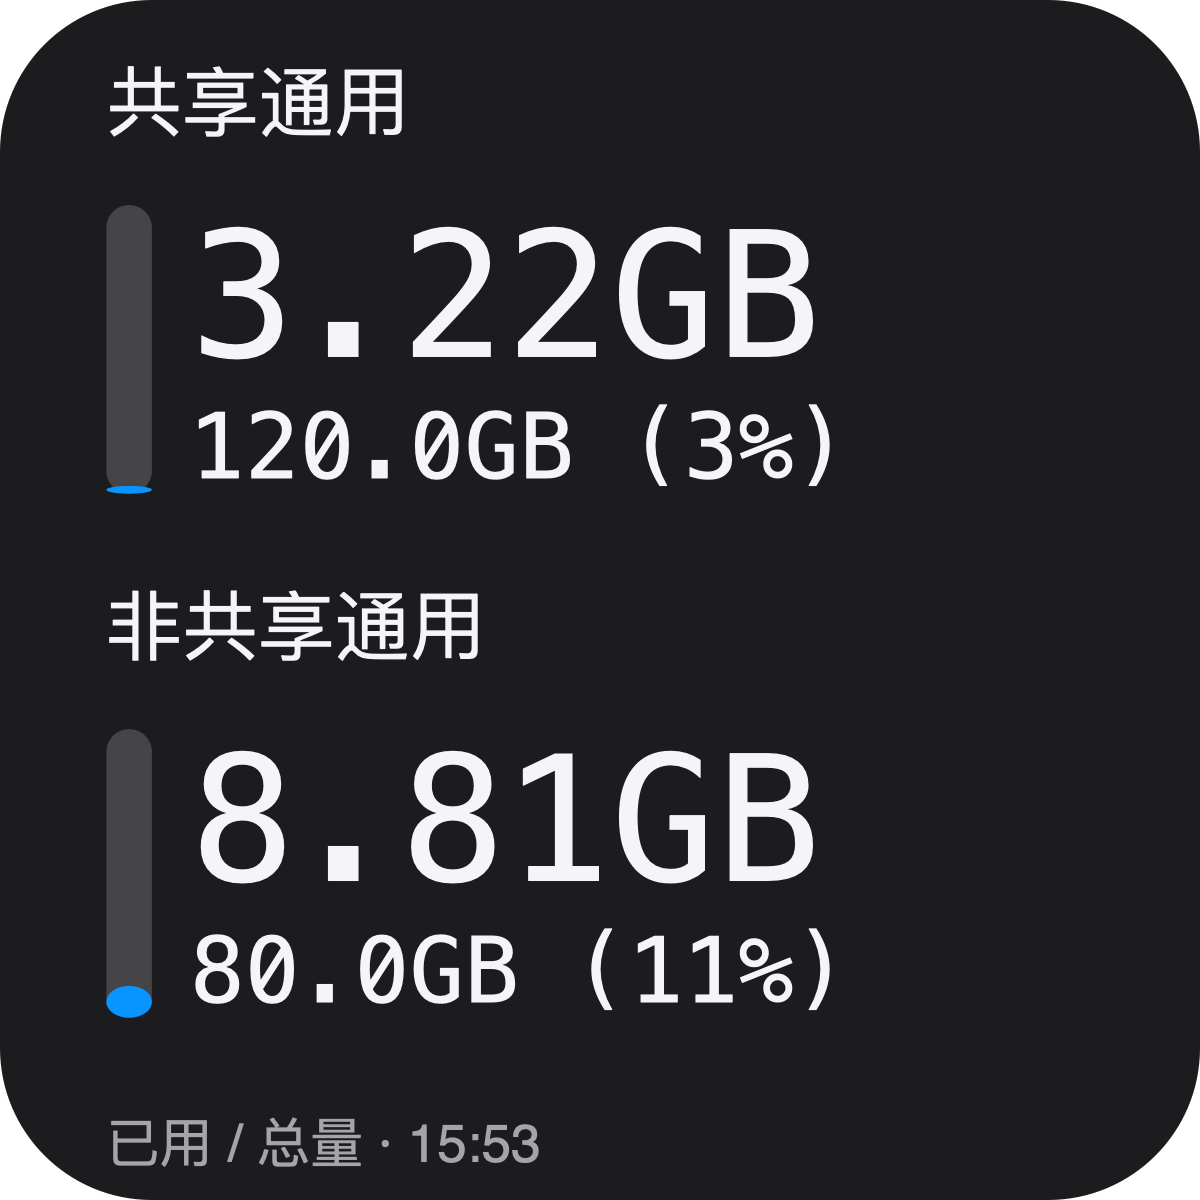
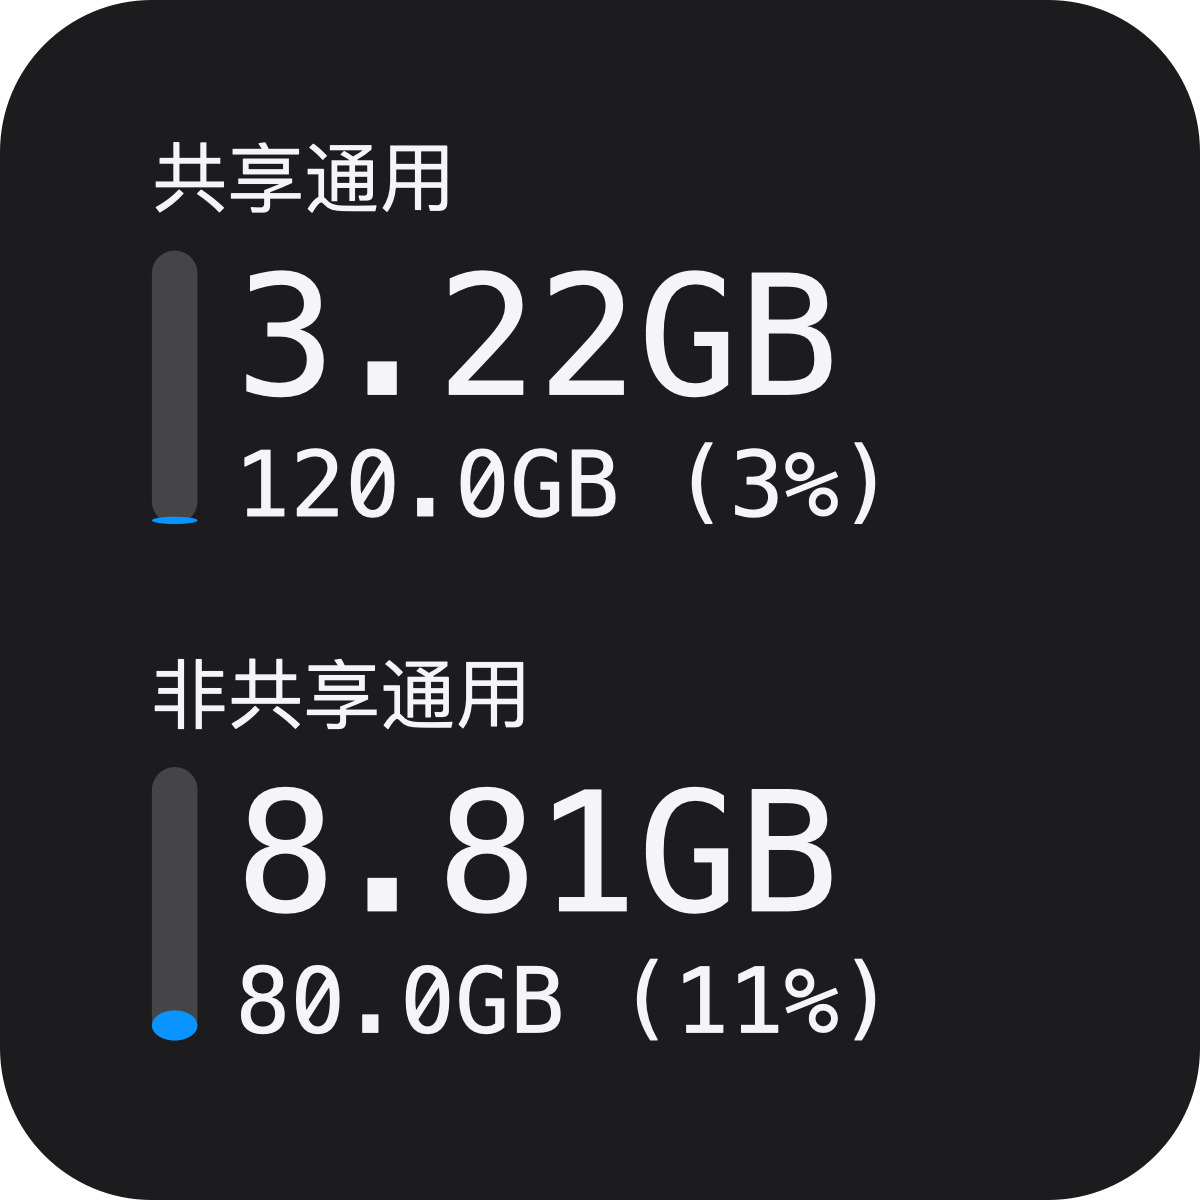
Improve widget padding and keep text clear of rounded corners

diff --git a/docs/unicom-flow/README.md b/docs/unicom-flow/README.md
@@ -26,7 +26,7 @@
 
 ## 脚本更新
 
-首次安装使用[仓库原始脚本](https://raw.githubusercontent.com/42vio/quantumultx-scripts/main/scriptable/UnicomFlow.js)。当前版本 `1.0.1`。
+首次安装使用[仓库原始脚本](https://raw.githubusercontent.com/42vio/quantumultx-scripts/main/scriptable/UnicomFlow.js)。当前版本 `1.0.2`。
 
 菜单“组件配置 → 脚本更新”下载本仓库 `main/scriptable/UnicomFlow.js`，检查文件标识和 JavaScript 语法，并读取版本号。只有仓库版本更高时才提示更新，确认后直接替换，不创建备份；相同版本或旧版本不覆盖当前脚本。
 
@@ -34,11 +34,11 @@
 
 主题和其他 DmYY 配置、历史快照、QX Cookie 不随更新清除。更新后关闭配置页、重新运行脚本。`DmYY.js` 不参与本菜单的更新。
 
-已安装 `1.0.0` 的用户可以从菜单更新。后续发布时递增 `UF_VERSION`（例如 `1.0.2`），再推送脚本内容。
+已安装 `1.0.0` 的用户可以从菜单更新。后续发布时递增 `UF_VERSION`（例如 `1.0.3`），再推送脚本内容。
 
 ## 显示规则
 
-大数字表示已用，下方表示套餐总量和已用百分比，竖条也表示已用比例。在“组件配置 → 组件主题”选择黑色或白色，默认黑色，不随系统自动变化。两种主题分别保存自定义颜色，切换后文字、刻度、背景和提示颜色一起变化；可在“颜色配置”中调整当前主题。原版本的颜色设置仅迁移到黑色主题，避免白色主题套用旧的黑底配置。不限量套餐不计算百分比；没有返回某一类明细时显示 `--`，不伪装成 0。
+大数字表示已用，下方表示套餐总量和已用百分比，竖条也表示已用比例。标题和数据采用更宽的安全留白；小号正常状态省略底部更新时间，避免圆角遮挡。缓存或未识别明细的提示仍保留在安全区域内。不同手机尺寸统一按设计高度缩放布局。在“组件配置 → 组件主题”选择黑色或白色，默认黑色，不随系统自动变化。两种主题分别保存自定义颜色，切换后文字、刻度、背景和提示颜色一起变化；可在“颜色配置”中调整当前主题。原版本的颜色设置仅迁移到黑色主题，避免白色主题套用旧的黑底配置。不限量套餐不计算百分比；没有返回某一类明细时显示 `--`，不伪装成 0。
 
 脚本调用联通的套餐明细接口 `queryOcsPackageFlowLeftContentRevisedInJune`。其明细中的 `total/use/remain` 默认以 MB 计，明确带单位的数值按单位换算；不从首页汇总值推算通用／定向数据。
 
@@ -94,3 +94,11 @@
 本地验证：`node tests/unicom-flow.test.cjs`。覆盖黑白主题、共享／非共享拆分、自动及手动分组、套餐字段、单位、去重、分类、缺失数据、跨日跨月、计数回退、会话隔离、乱序采样、原生绘图指令、首次运行与缓存降级，以及 Cookie 不落盘、DmYY 菜单注册与尺寸预览分支、配置页不发起账号请求。测试使用模拟数据，不声称已验证用户的真实联通账号或 iOS 原生显示。
 
 参考：[Scriptable 官方 API](https://docs.scriptable.app/)、[BoxJS 官方文档](https://docs.boxjs.app/)、[联通余量公开项目](https://github.com/ChinaTelecomOperators/ChinaUnicom)。流量查询与绘图独立实现，菜单使用 dompling 的 DmYY 依赖；既有 Cookie 获取规则也来自 dompling，不新增抓取规则。
+
+## 原始组件来源查找
+
+最初参考图左侧／下方属于 Scriptable 套餐流量组件，右上角明确标注 CPU Dasher，不是 Scriptable 手机流量统计。蜂窝与 Wi-Fi 统计模块按用户要求暂不开发。
+
+检索到“花猫”的 `CatStudyCase` 频道线索，旧转发曾提到每小时用量和 Stash 支持，但未找到可核实、与参考图对应的 GitHub 源码仓库。公开原帖当前不可访问，不能把其他作者的仓库当作他的代码。
+
+线索：[原帖地址](https://t.me/CatStudyCase/134)、[保留历史转发的页面](https://t.me/s/zhetengsha/676)。如果后续获得作者用户名或下载链接，再继续定位。
